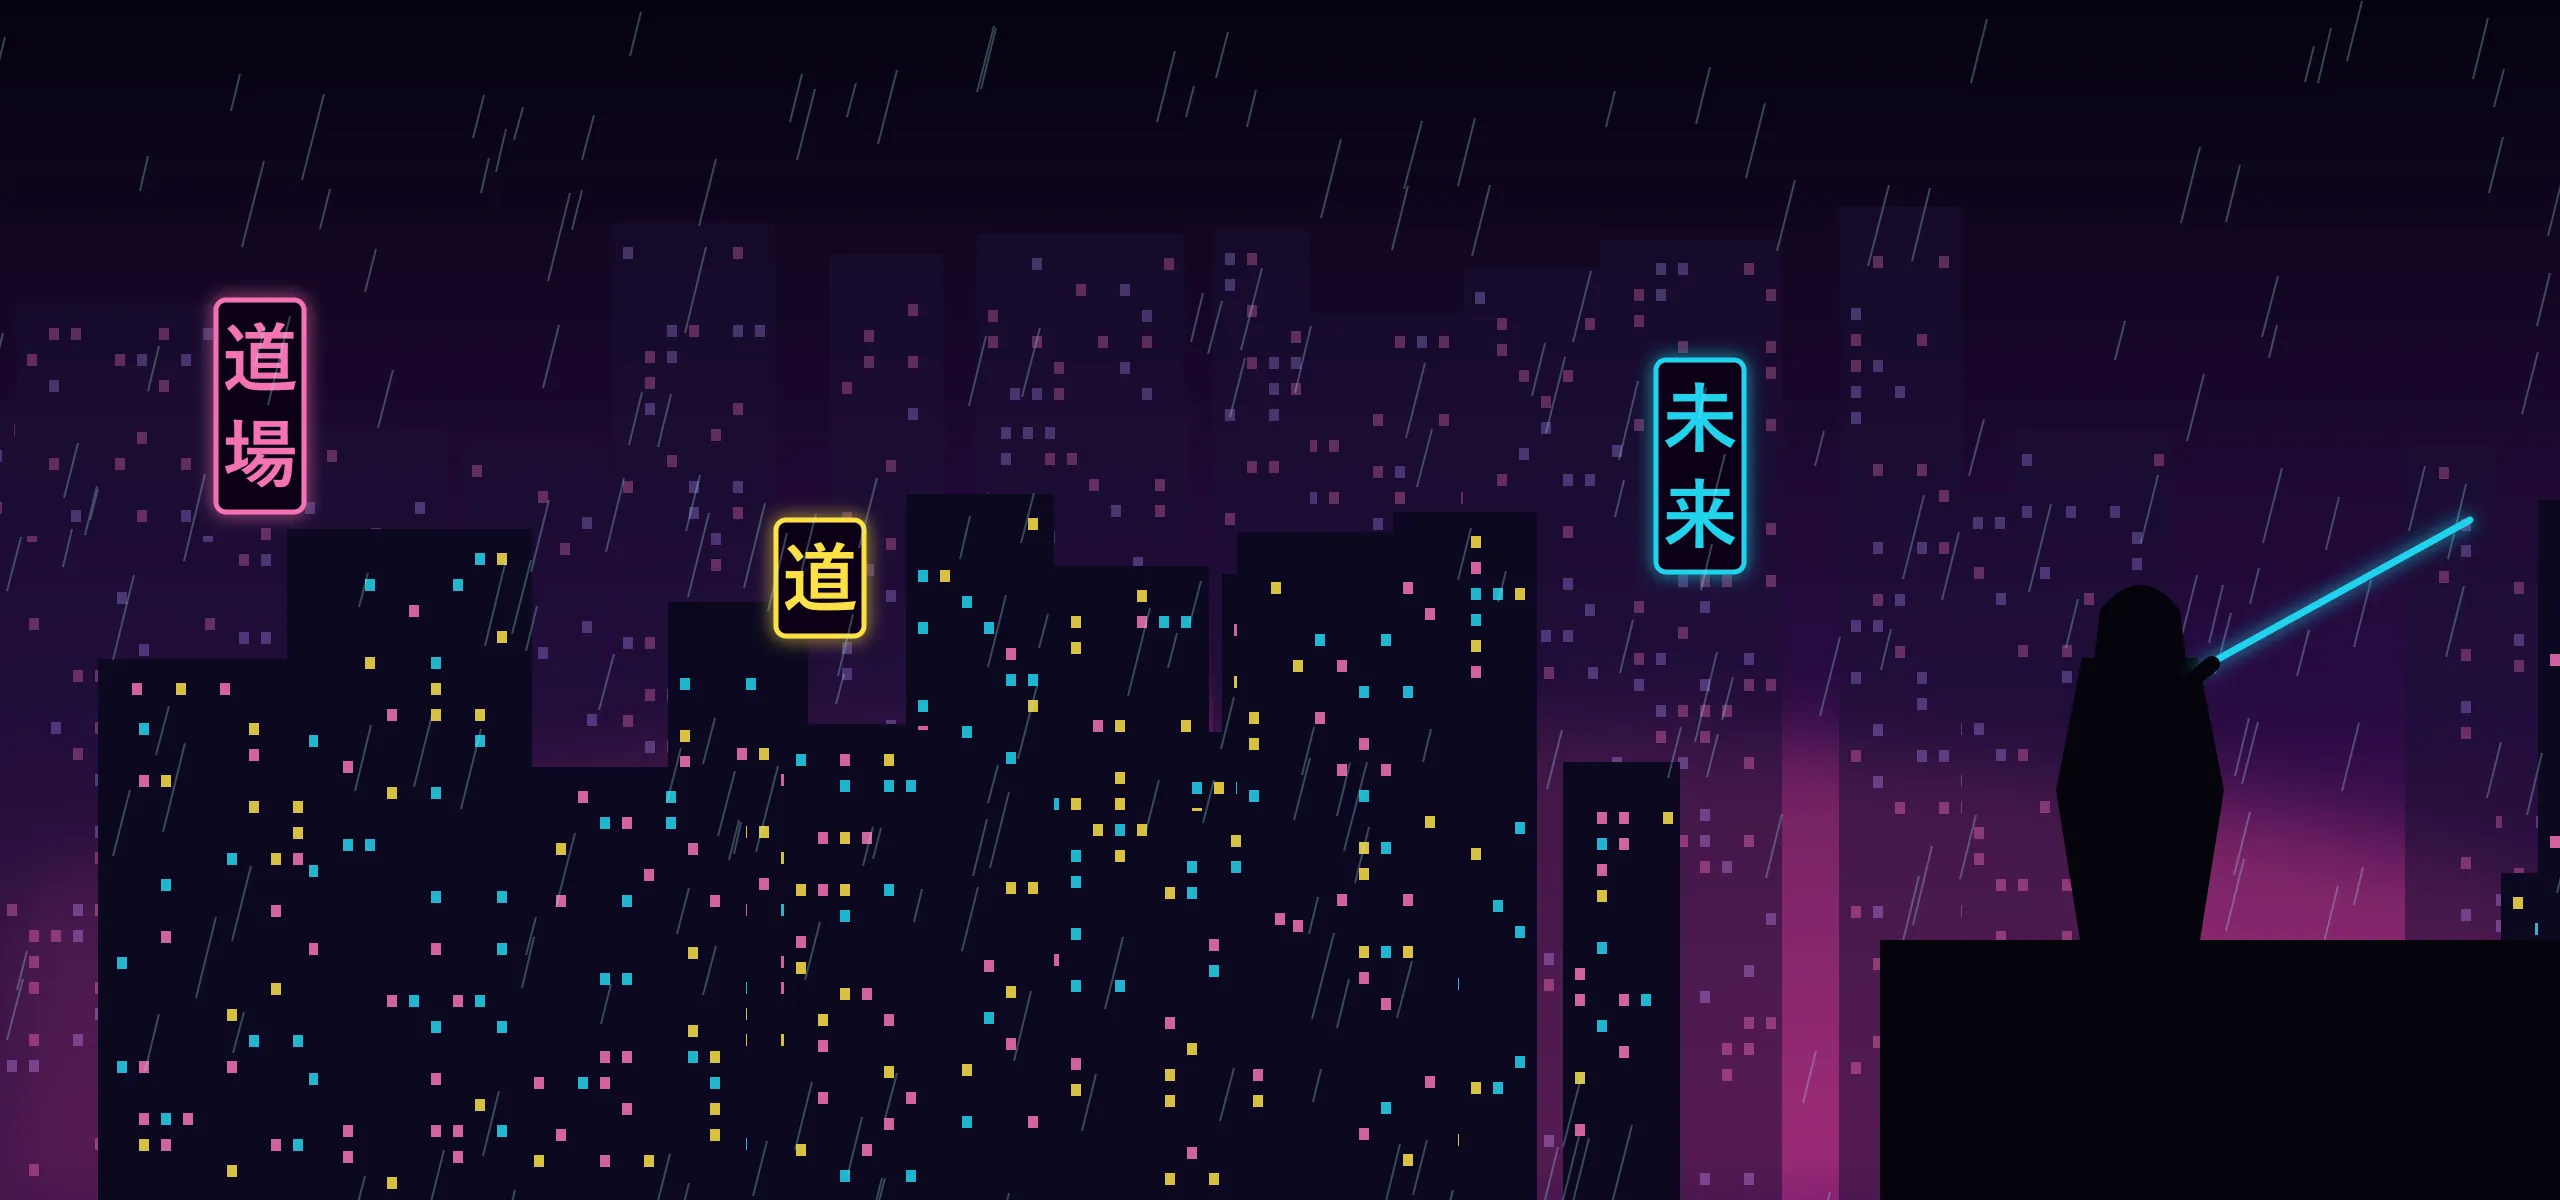
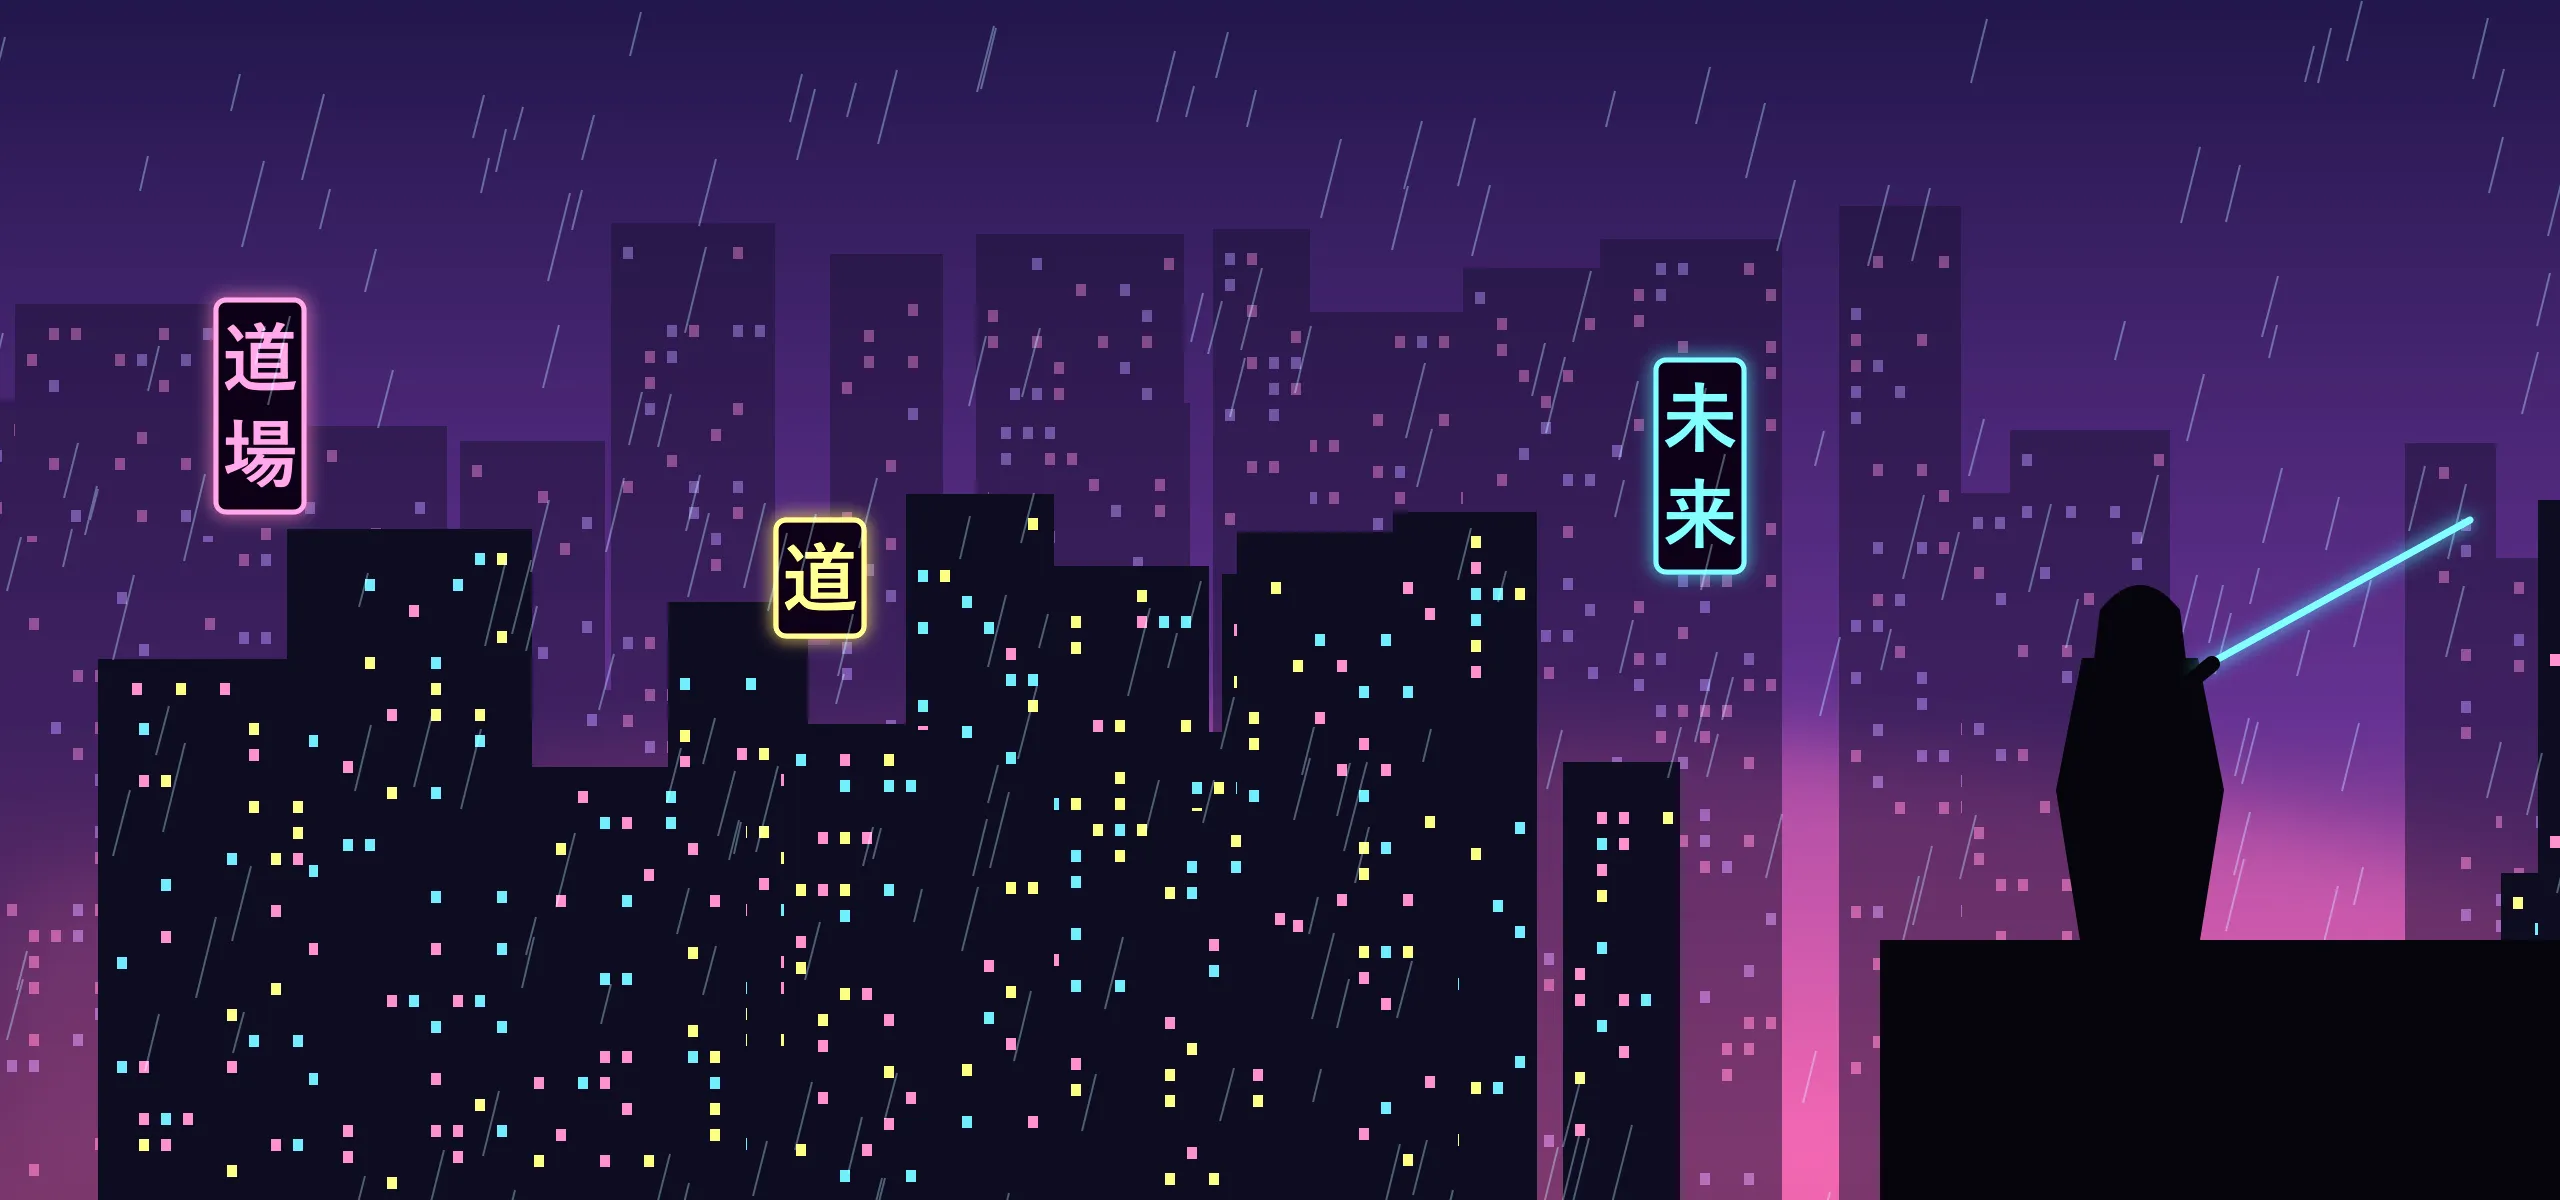
fix(put-adepta): фоны hero светлее — меньше затемнения, ярче ночные сцены
Затемнение hero: сплошное 45% → 15%, к центру 70% → 50%; тень текста
чуть плотнее. Небо киберпанка, космоса и ретровейва светлее, при
растеризации — подъём яркости (ночным сценам ×1.3).

diff --git a/src/pages/AdeptPath.tsx b/src/pages/AdeptPath.tsx
@@ -221,10 +221,10 @@ export default function AdeptPath() {
             fetchPriority="high"
             className="absolute inset-0 h-full w-full object-cover object-center"
           />
-          <div className="absolute inset-0 bg-slate-950/45" />
-          <div className="absolute inset-0 bg-[radial-gradient(ellipse_at_center,rgba(2,6,23,0.7)_0%,rgba(2,6,23,0.25)_55%,transparent_80%)]" />
+          <div className="absolute inset-0 bg-slate-950/15" />
+          <div className="absolute inset-0 bg-[radial-gradient(ellipse_at_center,rgba(2,6,23,0.5)_0%,rgba(2,6,23,0.12)_50%,transparent_75%)]" />
         </div>
-        <div className="max-w-4xl mx-auto text-center [text-shadow:0_2px_12px_rgba(2,6,23,0.6)]">
+        <div className="max-w-4xl mx-auto text-center [text-shadow:0_2px_14px_rgba(2,6,23,0.75)]">
           <h1 className="text-3xl sm:text-4xl lg:text-5xl font-extrabold tracking-tight text-white">
             {ADEPT_META.h1}
           </h1>
